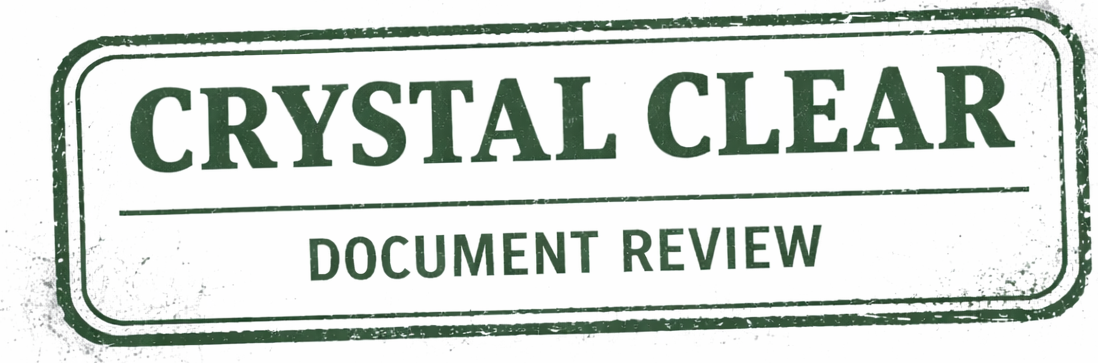
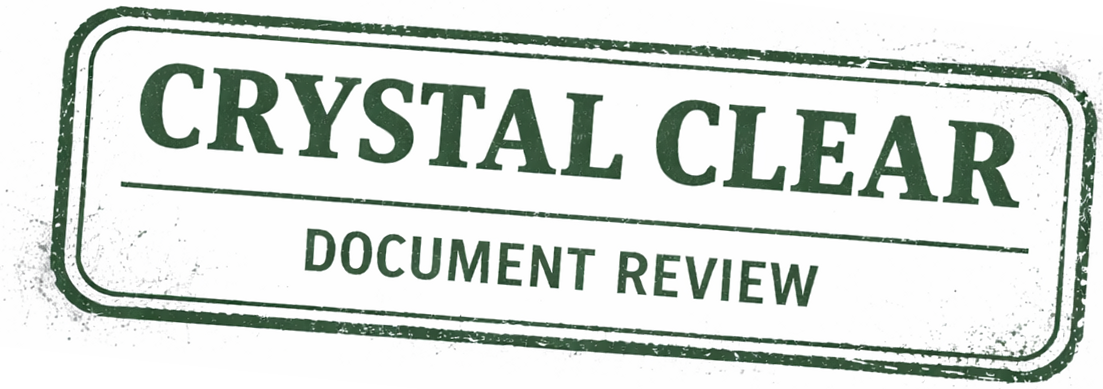
Home stamps: all three at the same 4 degree tilt
Crystal Clear tilted the opposite way to Nope and Hazy. Each stamp's border
was fitted and rotated to 4 degrees, then re-trimmed to its ink.

diff --git a/src/app/page.tsx b/src/app/page.tsx
@@ -7,10 +7,10 @@ import ThemeToggle from "@/components/ThemeToggle";
  * stamps, so NOPE and CRYSTAL CLEAR sit the same distance from the panel edges.
  * Ratios are width / height of the trimmed images in public/stamps/trim.
  */
-const NOPE = 2.4556;
-const HAZY = 2.3667;
-const CLEAR = 3.0248;
-const NUDGE = 5; // px: CRYSTAL CLEAR's ink runs to its image edge; NOPE's does not.
+const NOPE = 2.5329;
+const HAZY = 2.4301;
+const CLEAR = 2.8355;
+const NUDGE = 0; // px: adjust if the measured edge gaps differ.
 
 const left = `calc(var(--h) * ${NOPE / 2})`;
 const right = `calc(var(--h) * ${CLEAR / 2} + ${NUDGE}px)`;
